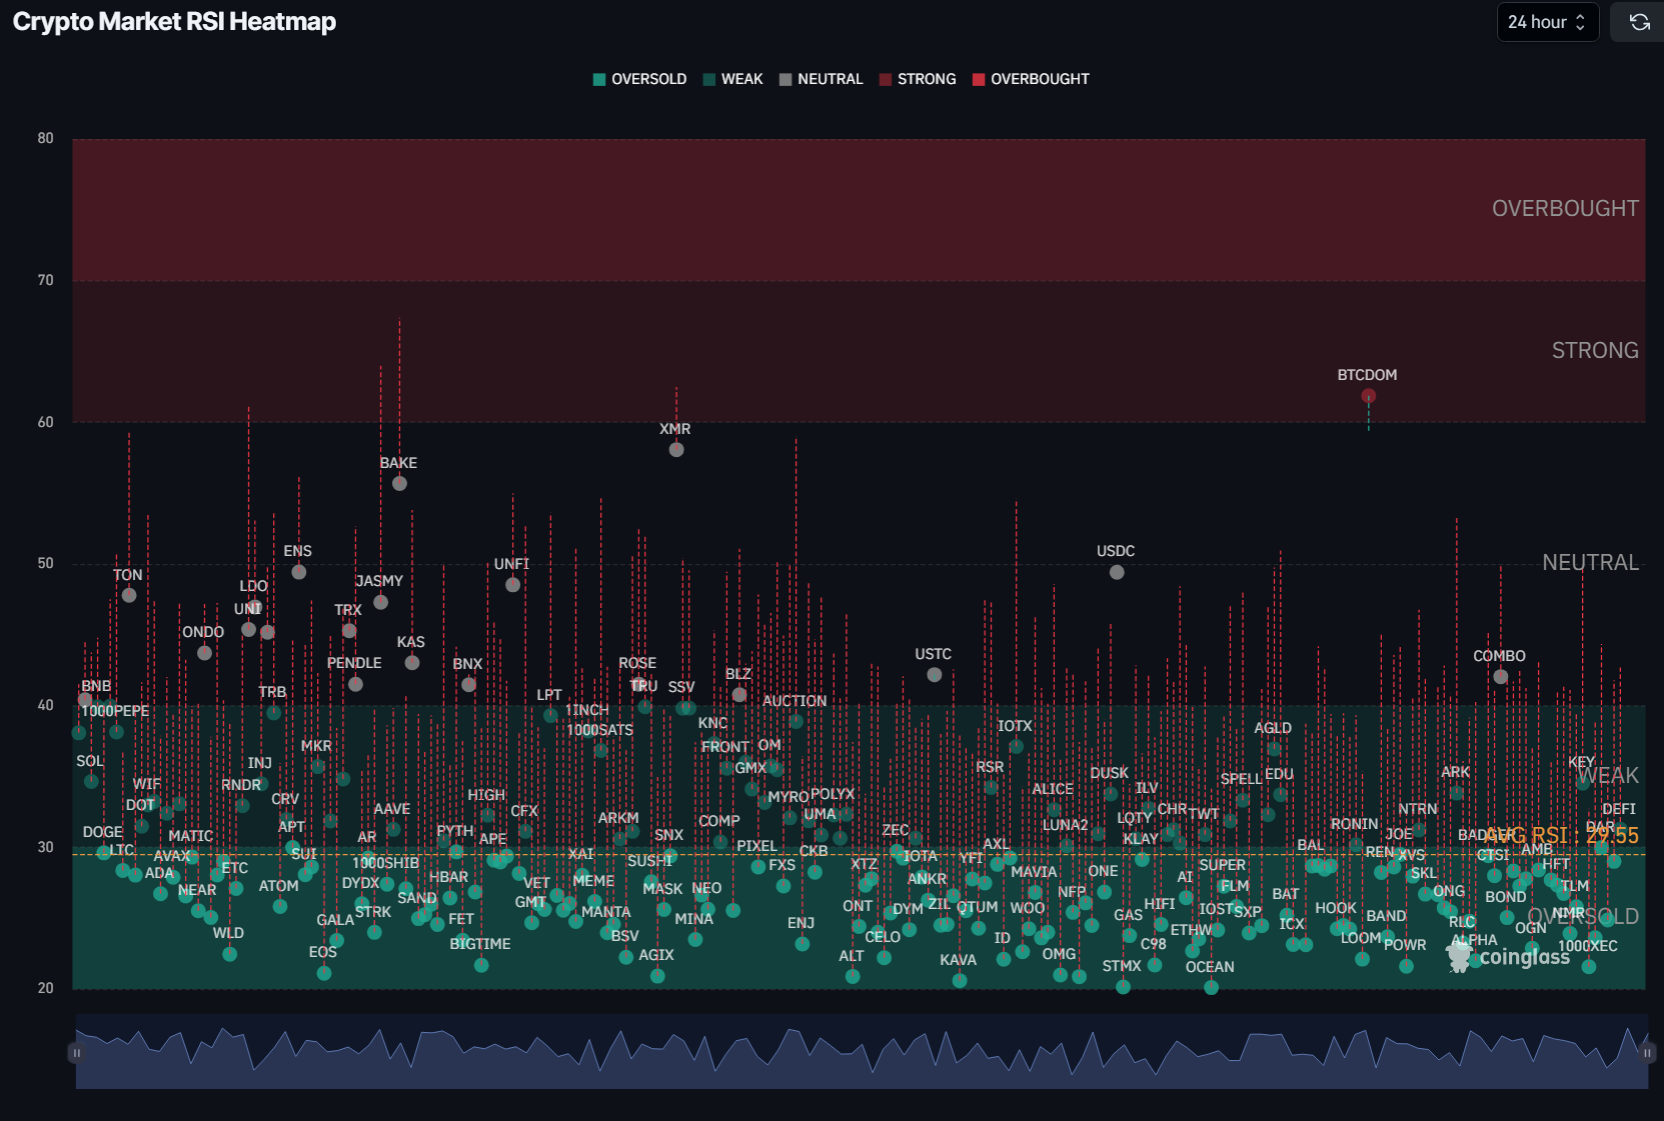
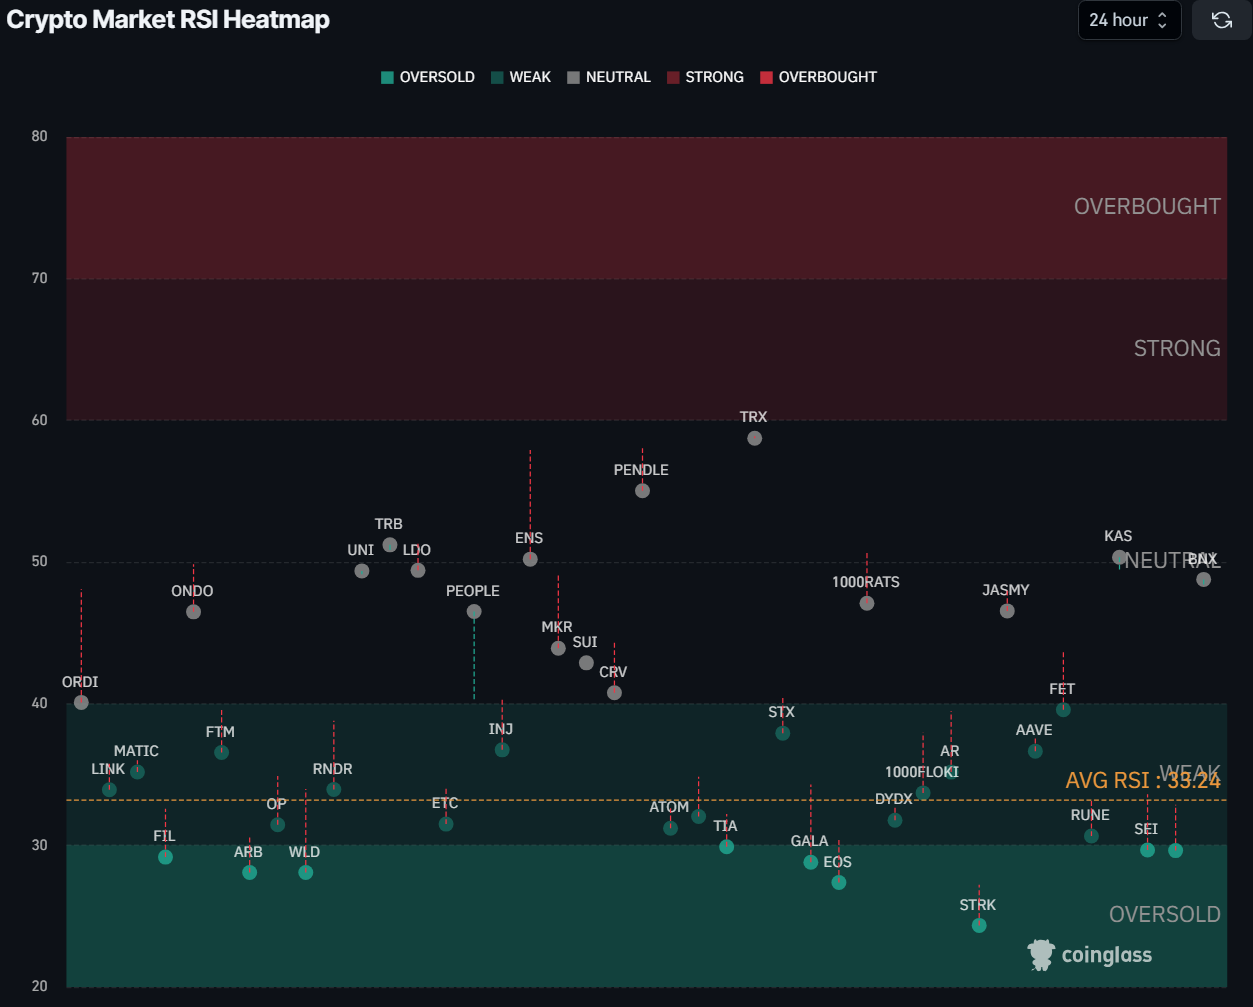
Updated images

diff --git a/src/main.py b/src/main.py
@@ -78,7 +78,7 @@ def plot_rsi_heatmap(num_coins: int = 100, time_frame: str = "1d") -> None:
             symbol.upper(),  # Text to display
             va="center",  # Vertical alignment
             ha="right",  # Horizontal alignment
-            fontsize=20,  # Font size
+            fontsize=15,  # Font size
             color="grey",  # Text color
         )
 
@@ -118,15 +118,17 @@ def plot_rsi_heatmap(num_coins: int = 100, time_frame: str = "1d") -> None:
             )
 
     # Draw the average RSI line and add the annotation
-    ax.axhline(xmin=0, xmax=1, y=average_rsi, color="orange", linestyle="--")
+    ax.axhline(
+        xmin=0, xmax=1, y=average_rsi, color="#d58c3c", linestyle="--", linewidth=0.75
+    )
     ax.text(
         len(rsi_symbols) + 1.5,  # Increase to move the text to the right
         average_rsi,
         f"AVG RSI: {average_rsi:.2f}",
-        color="orange",
+        color="#d58c3c",
         va="bottom",
         ha="right",
-        fontsize=16,
+        fontsize=15,
     )
 
     # Set the color of the tick labels to white
@@ -146,6 +148,19 @@ def plot_rsi_heatmap(num_coins: int = 100, time_frame: str = "1d") -> None:
     # Set the color of the spines to match the background color or make them invisible
     for spine in ax.spines.values():
         spine.set_edgecolor(BACKGROUND_COLOR)
+
+    # Add the title in the top left corner
+    plt.text(
+        -0.025,
+        1.125,
+        "Crypto Market RSI Heatmap",
+        transform=ax.transAxes,
+        fontsize=14,
+        verticalalignment="top",
+        horizontalalignment="left",
+        color="white",
+        weight="bold",
+    )
 
     plt.show()
 
